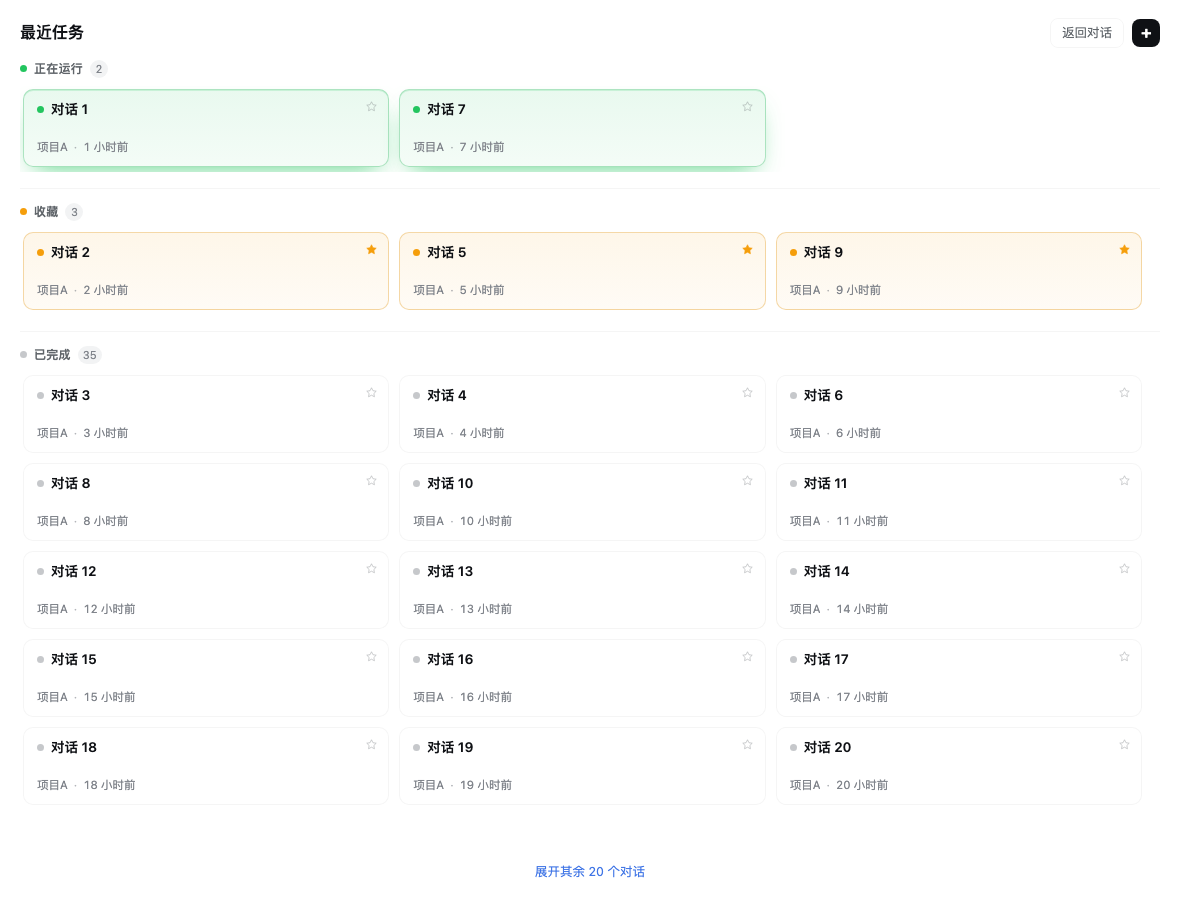
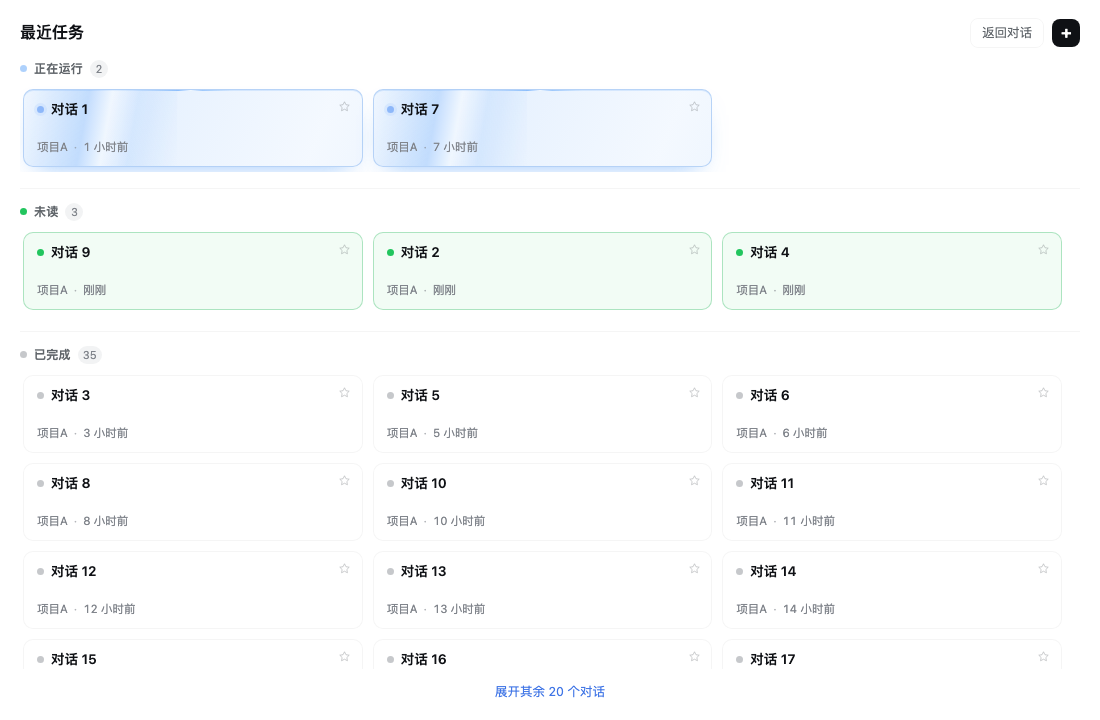
配色改版：正在运行改浅蓝并加流动光带与边框转光，未读改绿
- 运行卡：浅蓝渐变底缓慢漂移 + 一道光带定期扫过 + 边框光点绕行；蓝点呼吸
- 未读卡：绿色（浅色 6%/11%，深色 9%/15%），静态不动
- 待确认仍是红卡，且不跟随流动
- 深浅两套强度用 --drt-* 变量分离，深色下同比例色会发灰
- 自检加 7 条（点色、渐变、动画名、待确认不流动），155 条全过
- 自检页新增 ?freeze=<秒> 把动画停住再截图
- README 色表、检查条数、截图更新

diff --git a/client.js b/client.js
@@ -145,7 +145,12 @@ window.__ModuleLoader__.load({
     }
 
     const CSS = [
-      '.drt-root{height:100%;min-height:0;overflow:hidden;background:var(--dsw-alias-bg-base);color:var(--dsw-alias-label-primary);font-family:var(--dsw-font-family)}',
+      // Tone palette: 正在运行 is the light blue that keeps moving, 未读 the green
+      // that waits for you. Both are pulled from the static ramp so the plugin
+      // never fights the theme's own state colours.
+      '.drt-root{height:100%;min-height:0;overflow:hidden;--drt-run:var(--dsw-static-blue-400);--drt-run-dot:var(--dsw-static-blue-500);--drt-run-a:7%;--drt-run-b:15%;--drt-unread:var(--dsw-static-green-500);--drt-unread-dot:var(--dsw-static-green-500);--drt-unread-a:6%;--drt-unread-b:11%;--drt-sheen-lo:30%;--drt-sheen-hi:.30;--drt-sheen-tail:14%;background:var(--dsw-alias-bg-base);color:var(--dsw-alias-label-primary);font-family:var(--dsw-font-family)}',
+      // A tint that reads on a dark page needs more of the colour, not less.
+      'body[data-ds-dark-theme] .drt-root{--drt-run-dot:var(--dsw-static-blue-300);--drt-run-a:11%;--drt-run-b:21%;--drt-unread-dot:var(--dsw-static-green-400);--drt-unread-a:9%;--drt-unread-b:15%;--drt-sheen-lo:26%;--drt-sheen-hi:.10;--drt-sheen-tail:10%}',
       '.drt-page{height:100%;min-height:0;box-sizing:border-box;display:flex;flex-direction:column;gap:12px;padding:18px 20px 14px}',
       '.drt-header{flex:none;display:flex;align-items:center;gap:10px}',
       '.drt-title{margin:0;flex:1;min-width:0;font-size:16px;font-weight:700;line-height:1.2;white-space:nowrap;overflow:hidden;text-overflow:ellipsis}',
@@ -164,11 +169,11 @@ window.__ModuleLoader__.load({
       '.drt-sectionUnread{flex:none;min-height:0;border-top:1px solid var(--dsw-alias-border-l1);padding-top:14px}',
       '.drt-sectionDone{flex:1;min-height:0;border-top:1px solid var(--dsw-alias-border-l1);padding-top:14px}',
       '.drt-sectionFav{flex:none;min-height:0;border-top:1px solid var(--dsw-alias-border-l1);padding-top:14px}',
-      '.drt-headDot.is-unread{background:var(--dsw-alias-state-business-primary);opacity:1;animation:none}',
+      '.drt-headDot.is-unread{background:var(--drt-unread-dot);opacity:1;animation:none}',
       '.drt-headDot.is-fav{background:var(--dsw-alias-state-warn-primary);opacity:1;animation:none}',
       '.drt-sectionHead{flex:none;display:flex;align-items:center;gap:7px;min-width:0}',
       '.drt-headHint{min-width:0;overflow:hidden;text-overflow:ellipsis;white-space:nowrap;font-size:11.5px;color:var(--dsw-alias-label-tertiary)}',
-      '.drt-headDot{flex:none;width:7px;height:7px;border-radius:50%;background:var(--dsw-alias-state-success-primary);animation:drt-breathe 1.8s ease-in-out infinite}',
+      '.drt-headDot{flex:none;width:7px;height:7px;border-radius:50%;background:var(--drt-run);animation:drt-breathe 1.8s ease-in-out infinite}',
       '.drt-headDot.is-idle{background:var(--dsw-alias-label-tertiary);opacity:.45;animation:none}',
       '.drt-headDot.is-pending{background:var(--dsw-alias-state-error-primary);opacity:1;animation:drt-pause 2.6s ease-in-out infinite}',
       '.drt-chip{flex:none;display:inline-flex;align-items:center;height:18px;padding:0 7px;border-radius:9px;background:color-mix(in srgb, var(--dsw-alias-state-error-primary) 14%, transparent);color:var(--dsw-alias-state-error-primary);font-size:11px;font-weight:600;line-height:1;white-space:nowrap}',
@@ -183,17 +188,23 @@ window.__ModuleLoader__.load({
       '.drt-card:hover{transform:translateY(-1px)}',
       '.drt-card:active{transform:translateY(0)}',
       '.drt-card:focus-visible{outline:2px solid var(--dsw-alias-state-business-primary);outline-offset:2px}',
-      '.drt-card.is-running{border-color:color-mix(in srgb, var(--dsw-alias-state-success-primary) 30%, var(--dsw-alias-border-l1));background:linear-gradient(180deg,color-mix(in srgb, var(--dsw-alias-state-success-primary) 10%, var(--dsw-alias-bg-base)),color-mix(in srgb, var(--dsw-alias-state-success-primary) 5%, var(--dsw-alias-bg-base)));box-shadow:0 12px 26px -12px color-mix(in srgb, var(--dsw-alias-state-success-primary) 78%, transparent),inset 0 1px 0 color-mix(in srgb, var(--dsw-alias-state-success-primary) 16%, transparent)}',
-      '.drt-card.is-running:hover{background:color-mix(in srgb, var(--dsw-alias-state-success-primary) 13%, var(--dsw-alias-bg-base));box-shadow:0 16px 30px -12px color-mix(in srgb, var(--dsw-alias-state-success-primary) 88%, transparent),inset 0 1px 0 color-mix(in srgb, var(--dsw-alias-state-success-primary) 22%, transparent)}',
-      '.drt-card.is-unread{border-color:color-mix(in srgb, var(--dsw-alias-state-business-primary) 26%, var(--dsw-alias-border-l1));background:color-mix(in srgb, var(--dsw-alias-state-business-primary) 6%, var(--dsw-alias-bg-base))}',
-      '.drt-card.is-unread:hover{background:color-mix(in srgb, var(--dsw-alias-state-business-primary) 11%, var(--dsw-alias-bg-base))}',
+      '.drt-card.is-running{overflow:hidden;border-color:color-mix(in srgb, var(--drt-run) 36%, var(--dsw-alias-border-l1));background:linear-gradient(112deg,color-mix(in srgb, var(--drt-run) var(--drt-run-a), var(--dsw-alias-bg-base)) 0%,color-mix(in srgb, var(--drt-run) var(--drt-run-b), var(--dsw-alias-bg-base)) 25%,color-mix(in srgb, var(--drt-run) var(--drt-run-a), var(--dsw-alias-bg-base)) 50%,color-mix(in srgb, var(--drt-run) var(--drt-run-b), var(--dsw-alias-bg-base)) 75%,color-mix(in srgb, var(--drt-run) var(--drt-run-a), var(--dsw-alias-bg-base)) 100%);background-size:200% 100%;animation:drt-flow 9s linear infinite;box-shadow:0 12px 26px -14px color-mix(in srgb, var(--drt-run) 72%, transparent),inset 0 1px 0 color-mix(in srgb, var(--drt-run) 18%, transparent)}',
+      '.drt-card.is-running:hover{box-shadow:0 16px 32px -14px color-mix(in srgb, var(--drt-run) 88%, transparent),inset 0 1px 0 color-mix(in srgb, var(--drt-run) 26%, transparent)}',
+      // Two moving lights on a running card, both below the words: a band
+      // crossing the fill, and a spark running along the rim.
+      '.drt-card.is-running::before{content:"";position:absolute;top:0;bottom:0;left:0;width:46%;z-index:0;pointer-events:none;background:linear-gradient(100deg,transparent 0%,color-mix(in srgb, var(--drt-run) var(--drt-sheen-lo), transparent) 40%,rgb(255 255 255 / var(--drt-sheen-hi)) 54%,color-mix(in srgb, var(--drt-run) var(--drt-sheen-tail), transparent) 70%,transparent 100%);transform:translateX(-110%);animation:drt-sheen 5.6s cubic-bezier(.4,.05,.5,.95) infinite}',
+      '.drt-card.is-running::after{content:"";position:absolute;inset:0;z-index:0;border-radius:9px;padding:1px;pointer-events:none;background:conic-gradient(from var(--drt-angle),transparent 0turn,transparent .64turn,color-mix(in srgb, var(--drt-run) 60%, transparent) .74turn,rgba(255,255,255,.72) .79turn,color-mix(in srgb, var(--drt-run) 45%, transparent) .84turn,transparent .93turn,transparent 1turn);-webkit-mask:linear-gradient(#000 0 0) content-box,linear-gradient(#000 0 0);-webkit-mask-composite:xor;mask:linear-gradient(#000 0 0) content-box,linear-gradient(#000 0 0);mask-composite:exclude;animation:drt-spin 5.5s linear infinite}',
+      '.drt-card.is-unread{border-color:color-mix(in srgb, var(--drt-unread) 30%, var(--dsw-alias-border-l1));background:color-mix(in srgb, var(--drt-unread) var(--drt-unread-a), var(--dsw-alias-bg-base))}',
+      '.drt-card.is-unread:hover{background:color-mix(in srgb, var(--drt-unread) var(--drt-unread-b), var(--dsw-alias-bg-base))}',
       '.drt-card.is-done:hover{background:var(--dsw-alias-interactive-bg-hover);border-color:var(--dsw-alias-border-l2)}',
       '.drt-card.is-fav{border-color:color-mix(in srgb, var(--dsw-alias-state-warn-primary) 30%, var(--dsw-alias-border-l1));background:linear-gradient(180deg,color-mix(in srgb, var(--dsw-alias-state-warn-primary) 9%, var(--dsw-alias-bg-base)),color-mix(in srgb, var(--dsw-alias-state-warn-primary) 4%, var(--dsw-alias-bg-base)))}',
       '.drt-card.is-fav:hover{background:color-mix(in srgb, var(--dsw-alias-state-warn-primary) 13%, var(--dsw-alias-bg-base))}',
-      '.drt-card.is-pending{border-color:color-mix(in srgb, var(--dsw-alias-state-error-primary) 32%, var(--dsw-alias-border-l1));background:linear-gradient(180deg,color-mix(in srgb, var(--dsw-alias-state-error-primary) 11%, var(--dsw-alias-bg-base)),color-mix(in srgb, var(--dsw-alias-state-error-primary) 5%, var(--dsw-alias-bg-base)));box-shadow:inset 3px 0 0 color-mix(in srgb, var(--dsw-alias-state-error-primary) 70%, transparent),0 10px 22px -14px color-mix(in srgb, var(--dsw-alias-state-error-primary) 65%, transparent)}',
+      '.drt-card.is-pending{border-color:color-mix(in srgb, var(--dsw-alias-state-error-primary) 32%, var(--dsw-alias-border-l1));background:linear-gradient(180deg,color-mix(in srgb, var(--dsw-alias-state-error-primary) 11%, var(--dsw-alias-bg-base)),color-mix(in srgb, var(--dsw-alias-state-error-primary) 5%, var(--dsw-alias-bg-base)));box-shadow:inset 3px 0 0 color-mix(in srgb, var(--dsw-alias-state-error-primary) 70%, transparent),0 10px 22px -14px color-mix(in srgb, var(--dsw-alias-state-error-primary) 65%, transparent);animation:none}',
+      '.drt-card.is-pending::after{content:none}',
+      '.drt-card.is-pending::before{content:none}',
       '.drt-card.is-pending:hover{background:color-mix(in srgb, var(--dsw-alias-state-error-primary) 12%, var(--dsw-alias-bg-base));box-shadow:inset 3px 0 0 color-mix(in srgb, var(--dsw-alias-state-error-primary) 88%, transparent),0 14px 26px -14px color-mix(in srgb, var(--dsw-alias-state-error-primary) 80%, transparent)}',
       '.drt-cardDot.is-fav{background:var(--dsw-alias-state-warn-primary);opacity:1}',
-      '.drt-star{position:absolute;top:5px;right:5px;display:inline-flex;align-items:center;justify-content:center;width:24px;height:24px;padding:0;border:none;border-radius:7px;background:transparent;color:var(--dsw-alias-label-secondary);cursor:pointer;opacity:.5;transition:opacity .16s ease,color .16s ease,background-color .16s ease,transform .16s ease}',
+      '.drt-star{position:absolute;top:5px;right:5px;z-index:2;display:inline-flex;align-items:center;justify-content:center;width:24px;height:24px;padding:0;border:none;border-radius:7px;background:transparent;color:var(--dsw-alias-label-secondary);cursor:pointer;opacity:.5;transition:opacity .16s ease,color .16s ease,background-color .16s ease,transform .16s ease}',
       '.drt-star:hover{opacity:1;background:var(--dsw-alias-interactive-bg-hover);transform:scale(1.06)}',
       '.drt-star:focus-visible{opacity:1;outline:2px solid var(--dsw-alias-state-warn-primary);outline-offset:1px}',
       '.drt-star.is-on{color:var(--dsw-alias-state-warn-primary);opacity:1}',
@@ -203,21 +214,26 @@ window.__ModuleLoader__.load({
       '.drt-card.is-fav{animation:drt-fav-in .22s cubic-bezier(.22,1,.36,1)}',
       '@keyframes drt-star-pop{0%{transform:scale(.7)}60%{transform:scale(1.16)}100%{transform:scale(1)}}',
       '@keyframes drt-fav-in{from{opacity:0;transform:translateY(-4px)}to{opacity:1;transform:translateY(0)}}',
-      '.drt-cardHead{display:flex;align-items:flex-start;gap:7px;min-width:0;padding-right:24px}',
+      '.drt-cardHead{position:relative;z-index:1;display:flex;align-items:flex-start;gap:7px;min-width:0;padding-right:24px}',
       '.drt-cardDot{flex:none;width:7px;height:7px;margin-top:5px;border-radius:50%;background:var(--dsw-alias-label-tertiary);opacity:.45}',
-      '.drt-cardDot.is-running{background:var(--dsw-alias-state-success-primary);opacity:1;animation:drt-breathe 1.8s ease-in-out infinite}',
-      '.drt-cardDot.is-unread{background:var(--dsw-alias-state-business-primary);opacity:1;animation:none}',
+      '.drt-cardDot.is-running{background:var(--drt-run-dot);opacity:1;box-shadow:0 0 0 3px color-mix(in srgb, var(--drt-run-dot) 16%, transparent);animation:drt-breathe 1.8s ease-in-out infinite}',
+      '.drt-cardDot.is-unread{background:var(--drt-unread-dot);opacity:1;animation:none}',
       '.drt-cardDot.is-pending{background:var(--dsw-alias-state-error-primary);opacity:1;animation:drt-pause 2.6s ease-in-out infinite}',
       '.drt-pill{flex:none;display:inline-flex;align-items:center;padding:1px 6px;border-radius:6px;background:color-mix(in srgb, var(--dsw-alias-state-error-primary) 15%, transparent);color:var(--dsw-alias-state-error-primary);font-size:10.5px;font-weight:600;line-height:1.5;white-space:nowrap}',
       '.drt-cardTitle{flex:1;min-width:0;font-size:13.5px;font-weight:600;line-height:1.32;color:var(--dsw-alias-label-primary);display:-webkit-box;-webkit-line-clamp:2;-webkit-box-orient:vertical;overflow:hidden;overflow-wrap:anywhere}',
-      '.drt-cardMeta{display:flex;align-items:center;gap:6px;min-width:0;margin-top:auto;font-size:11.5px;line-height:1.4;color:var(--dsw-alias-label-tertiary)}',
+      '.drt-cardMeta{position:relative;z-index:1;display:flex;align-items:center;gap:6px;min-width:0;margin-top:auto;font-size:11.5px;line-height:1.4;color:var(--dsw-alias-label-tertiary)}',
       '.drt-cardWorkspace{min-width:0;overflow:hidden;text-overflow:ellipsis;white-space:nowrap}',
       '.drt-cardSep{flex:none;opacity:.6}',
       '.drt-cardTime{flex:none;white-space:nowrap;font-variant-numeric:tabular-nums}',
       '.drt-section .drt-empty{padding:2px 1px 0;font-size:12px}',
       '@keyframes drt-breathe{0%,100%{opacity:1}50%{opacity:.45}}',
       '@keyframes drt-pause{0%,100%{opacity:1}50%{opacity:.32}}',
-      '@media (prefers-reduced-motion:reduce){.drt-headDot,.drt-cardDot,.drt-star.is-on svg,.drt-card.is-fav{animation:none}.drt-card,.drt-star{transition:none}.drt-card:hover,.drt-card:active,.drt-star:hover{transform:none}}',
+      // 200% wide, two identical periods: running 0→100% loops without a seam.
+      '@keyframes drt-flow{from{background-position:0% 50%}to{background-position:100% 50%}}',
+      '@property --drt-angle{syntax:"<angle>";inherits:false;initial-value:0deg}',
+      '@keyframes drt-spin{to{--drt-angle:1turn}}',
+      '@keyframes drt-sheen{0%{transform:translateX(-110%)}55%,100%{transform:translateX(230%)}}',
+      '@media (prefers-reduced-motion:reduce){.drt-card.is-running,.drt-card.is-running::before,.drt-card.is-running::after{animation:none}.drt-headDot,.drt-cardDot,.drt-star.is-on svg,.drt-card.is-fav{animation:none}.drt-card,.drt-star{transition:none}.drt-card:hover,.drt-card:active,.drt-star:hover{transform:none}}',
       '.drt-empty{margin:0;padding:8px 2px;font-size:12.5px;line-height:1.6;color:var(--dsw-alias-label-tertiary)}',
       '.drt-overlay{position:fixed;inset:0;z-index:60;display:flex;align-items:center;justify-content:center;padding:24px;background:rgba(0,0,0,.36)}',
       '.drt-dialog{display:flex;flex-direction:column;width:min(460px,100%);max-height:min(560px,78vh);overflow:hidden;border:1px solid var(--dsw-alias-border-l1);border-radius:14px;background:var(--dsw-alias-bg-base);color:var(--dsw-alias-label-primary);box-shadow:0 18px 48px rgba(0,0,0,.3)}',
